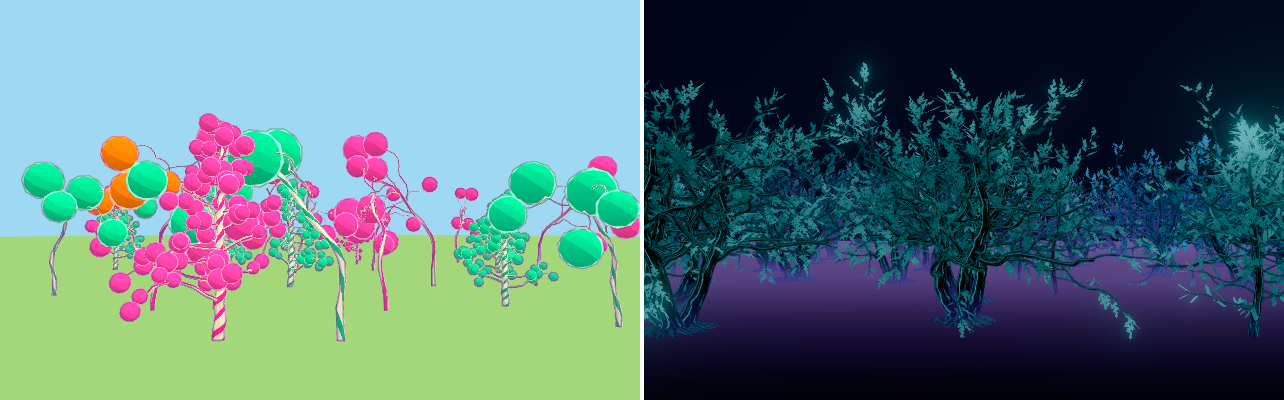
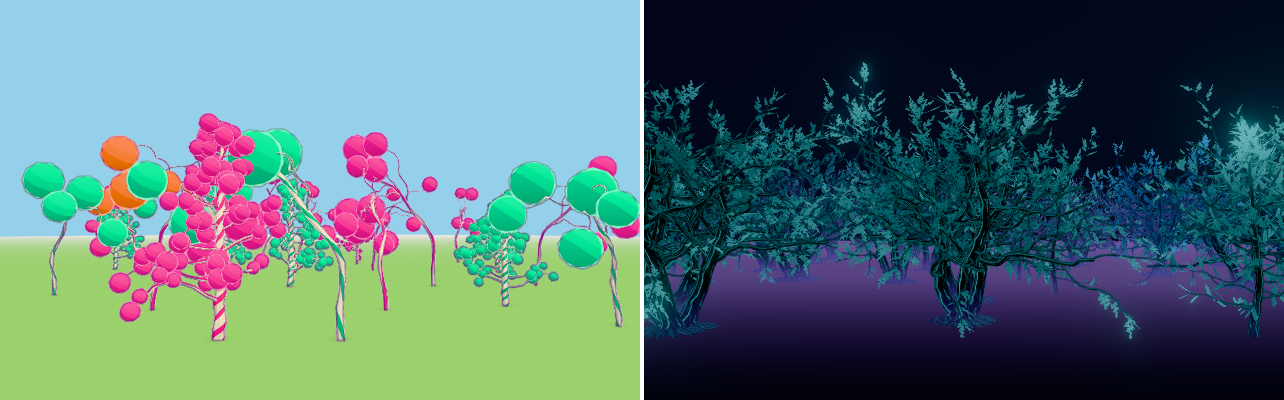
Whimsical suggested Scene Effects retuned for bright, saturated candy colours (Neutral tone mapping, lighter AO, light far pastel fog, faint bloom); fantasy hero draws Whimsical with them (#138 review)

diff --git a/scripts/readme-media/main.ts b/scripts/readme-media/main.ts
@@ -179,8 +179,8 @@ const SHOTS: Record<string, (stage: Stage) => Promise<Shot>> = {
   },
 
   /**
-   * Fantasy Styles (captured twice, side by side): a Whimsical grove by day (?part=day) with its suggested Tree
-   * Effects (its pastel Scene Effects would wash out the candy colours in a small picture), and an Enchanted Forest
+   * Fantasy Styles (captured twice, side by side): a Whimsical grove by day (?part=day) through the Scene Pipeline
+   * with its suggested Tree Effects and Scene Effects, and an Enchanted Forest
    * at night (?part=night: no sun, a faint cool sky light) through the Scene Pipeline with its suggested Tree
    * Effects and Scene Effects (the bloom makes the Inner Glow shine). The Wind clock stays at 0 (pulse pinned).
    */
@@ -211,7 +211,7 @@ const SHOTS: Record<string, (stage: Stage) => Promise<Shot>> = {
     camera.position.set(night ? -8 : -4, night ? 4 : 3.5, night ? 46 : 28);
     camera.lookAt(0, night ? 7 : 5, 0);
     camera.updateProjectionMatrix();
-    const pipeline = createScenePipeline(renderer, scene, camera, night ? { style: 'enchanted' } : { style: 'whimsical', sceneEffects: null });
+    const pipeline = createScenePipeline(renderer, scene, camera, { style: night ? 'enchanted' : 'whimsical' });
     return {
       frames: 1,
       async render() {

diff --git a/src/scene/suggested.ts b/src/scene/suggested.ts
@@ -51,14 +51,15 @@ export const SUGGESTED_SCENE_EFFECTS: Record<StyleName, SceneEffectsSettings> = 
     antialias: 'smaa',
     fog: { near: 15, far: 130 },
   },
-  // Like stylized but lighter: AgX keeps the candy colours from clipping, light AO (the shade is meant to
-  // stay bright), a pastel lavender-pink fog and almost no bloom (the colours glow on their own).
+  // Bright and saturated: Neutral, not AgX (AgX greys the candy colours and the sky at any exposure), light
+  // AO (the shade is meant to stay bright), a light pastel pink fog that only touches the far trees and
+  // almost no bloom (the colours glow on their own).
   whimsical: {
-    toneMapping: { mapping: 'agx', exposure: 1.2 },
-    ao: { radius: 1, scale: 0.8, thickness: 1.5 },
-    bloom: { strength: 0.03, radius: 0.4, threshold: 0.7 },
+    toneMapping: { mapping: 'neutral' },
+    ao: { radius: 1, scale: 0.5, thickness: 1.5 },
+    bloom: { strength: 0.02, radius: 0.4, threshold: 0.9 },
     antialias: 'smaa',
-    fog: { color: '#f6e1f0', near: 15, far: 130 },
+    fog: { color: '#fdf0f8', near: 30, far: 220 },
   },
   // Made for the dark: AgX, a strong bloom with a low threshold so the Inner Glow blooms, AO for ground
   // contact and a violet mist lying low on the ground.

diff --git a/README.md b/README.md
@@ -158,8 +158,9 @@ scene.add(oak, pine, birch, tallPine);
 
 ![A Whimsical grove by day: corkscrewing trees with candy-striped trunks and round pom-poms in pink, mint and orange; and an Enchanted Forest at night: sinuous dark trees whose teal leaves glow, with bloom and a violet ground mist](docs/images/fantasy.png)
 
-*Left: a Whimsical grove by day, with its suggested Tree Effects. Right: an Enchanted Forest at night (no sun),
-through `createScenePipeline(renderer, scene, camera, { style: 'enchanted' })`: its bloom makes the Inner Glow shine.*
+*Left: a Whimsical grove by day, through `createScenePipeline(renderer, scene, camera, { style: 'whimsical' })`
+(its suggested Tree Effects and Scene Effects). Right: an Enchanted Forest at night (no sun), through
+`createScenePipeline(renderer, scene, camera, { style: 'enchanted' })`: its bloom makes the Inner Glow shine.*
 
 `whimsical` and `enchanted` are the two **Fantasy Styles**: they draw trees as no real tree looks. Like
 every Style they apply to any Species or Definition, keeping its Crown Shape, branch counts, Fruit and Roots
@@ -1343,7 +1344,7 @@ forest (trees 10-30 m away); scale it up for large worlds:
 | `stylized` | AgX | SMAA | yes | soft | distance + low mist | - |
 | `realistic` | AgX | SMAA | yes | subtle | distance + mist + far haze | yes (needs `sun`) |
 | `painterly` | - (the renderer's own; keeps the painted colours) | SMAA | light | - | distance | - |
-| `whimsical` | AgX | SMAA | light | faint | distance, pastel pink | - |
+| `whimsical` | Neutral (keeps the candy colours saturated) | SMAA | light | faint | far distance, light pastel pink | - |
 | `enchanted` | AgX | SMAA | yes | strong, low threshold (the Inner Glow blooms) | distance + low mist, violet | - |
 
 SMAA is in every suggestion because the [Tree ID](#tree-id) channel turns MSAA off. TRAA and motion
